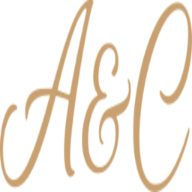
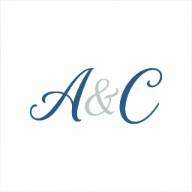
style

Changed region(s): [[0.0, 0.0, 1.0, 1.0], [0.7812, 0.5625, 0.8125, 0.5938]]

diff --git a/public/admin.html b/public/admin.html
@@ -274,7 +274,7 @@
             background: var(--primary);
             color: white;
             border-color: var(--primary);
-            box-shadow: 0 4px 12px rgba(212, 165, 116, 0.2);
+            box-shadow: 0 4px 12px rgba(44, 101, 156, 0.2);
         }
 
         .tab-content {
@@ -651,14 +651,14 @@
             left: 20px;
             right: 20px;
             bottom: 20px;
-            border: 1px solid #dfd3c3;
+            border: 1px solid #b8cdd8;
             pointer-events: none;
         }
 
         .invitation-names {
             font-family: 'Playfair Display', serif;
             font-size: 3rem;
-            color: #bfa37e;
+            color: #2C659C;
             margin-bottom: 0.5rem;
             line-height: 1.2;
         }
@@ -689,13 +689,13 @@
         .invitation-divider {
             width: 60px;
             height: 1px;
-            background: #bfa37e;
+            background: #2C659C;
             margin: 2rem auto;
         }
 
         .invitation-code-box {
-            background: #fdfaf6;
-            border: 1px dashed #d1b894;
+            background: #EFF5F9;
+            border: 1px dashed #89afc4;
             padding: 2rem;
             margin: 1.5rem 0;
             border-radius: 4px;
@@ -1252,7 +1252,7 @@
                             RSVP Online</p>
                         <p style="font-size: 0.95rem; line-height: 1.6; color: #555;">To view wedding details,
                             accommodations,<br>and to RSVP, please visit our website:</p>
-                        <p style="font-weight: 600; color: #bfa37e; margin: 1rem 0; font-size: 1.1rem;"
+                        <p style="font-weight: 600; color: #2C659C; margin: 1rem 0; font-size: 1.1rem;"
                             id="invitation-url-text"></p>
 
                         <div class="invitation-code-box">
@@ -1727,7 +1727,7 @@
                             RSVP Online</p>
                         <p style="font-size: 0.95rem; line-height: 1.6; color: #555;">To view wedding details,
                             accommodations,<br>and to RSVP, please visit our website:</p>
-                        <p style="font-weight: 600; color: #bfa37e; margin: 1rem 0; font-size: 1.1rem;"
+                        <p style="font-weight: 600; color: #2C659C; margin: 1rem 0; font-size: 1.1rem;"
                             id="invitation-url-text"></p>
 
                         <div class="invitation-code-box">
@@ -1756,7 +1756,7 @@
                 width: 128,
                 height: 128,
                 colorDark: "#333333",
-                colorLight: "#fdfaf6",
+                colorLight: "#EFF5F9",
                 correctLevel: QRCode.CorrectLevel.H
             });
 
@@ -2207,7 +2207,7 @@
                 <!-- Back Card (used as a container for simple QR view) -->
                 <div class="invitation-card" style="height: auto; padding: 2rem;">
                     <div class="invitation-back-content">
-                        <p style="font-weight: 600; color: #bfa37e; margin: 1rem 0; font-size: 1.1rem;">${url.replace('http://', '').replace('https://', '')}</p>
+                        <p style="font-weight: 600; color: #2C659C; margin: 1rem 0; font-size: 1.1rem;">${url.replace('http://', '').replace('https://', '')}</p>
                         <div class="invitation-code-box">
                             <p style="font-size: 0.7rem; color: #999; letter-spacing: 0.1em; margin-bottom: 0.5rem; text-transform: uppercase;">Your Unique Access Code</p>
                             <div class="invitation-code">${code}</div>
@@ -2225,7 +2225,7 @@
                 width: 150,
                 height: 150,
                 colorDark: "#333333",
-                colorLight: "#fdfaf6",
+                colorLight: "#EFF5F9",
                 correctLevel: QRCode.CorrectLevel.H
             });
 

diff --git a/public/styles.css b/public/styles.css
@@ -5,16 +5,16 @@
    ============================================ */
 :root {
   /* Colors */
-  --primary: #d4a574;
-  --primary-light: #e8c5a0;
-  --primary-dark: #c09258;
-  --secondary: #8b7355;
-  --accent: #c9a587;
-  --bg: #faf8f6;
-  --bg-dark: #f5f2ee;
-  --text-dark: #2c2c2c;
-  --text-light: #6b6b6b;
-  --text-muted: #a0a0a0;
+  --primary: #2C659C;
+  --primary-light: #D7E9F5;
+  --primary-dark: #1a4a7a;
+  --secondary: #4a7a6d;
+  --accent: #CBD8D1;
+  --bg: #E6EDF1;
+  --bg-dark: #D7E9F5;
+  --text-dark: #103445;
+  --text-light: #4a5c6a;
+  --text-muted: #8a9ba8;
   --white: #ffffff;
   --error: #d67070;
   --success: #7ab87a;
@@ -171,8 +171,8 @@ p {
   left: 0;
   right: 0;
   bottom: 0;
-  background: radial-gradient(circle at 20% 50%, rgba(212, 165, 116, 0.1) 0%, transparent 50%),
-    radial-gradient(circle at 80% 50%, rgba(201, 165, 135, 0.1) 0%, transparent 50%);
+  background: radial-gradient(circle at 20% 50%, rgba(44, 101, 156, 0.1) 0%, transparent 50%),
+    radial-gradient(circle at 80% 50%, rgba(203, 216, 209, 0.1) 0%, transparent 50%);
   pointer-events: none;
 }
 
@@ -351,7 +351,7 @@ p {
   top: 32px;
   border-radius: 50%;
   z-index: 1;
-  box-shadow: 0 0 0 4px rgba(212, 165, 116, 0.2);
+  box-shadow: 0 0 0 4px rgba(44, 101, 156, 0.2);
 }
 
 .timeline-item:nth-child(even) .timeline-marker {
@@ -507,7 +507,7 @@ p {
 .form-select:focus {
   outline: none;
   border-color: var(--primary);
-  box-shadow: 0 0 0 4px rgba(212, 165, 116, 0.1);
+  box-shadow: 0 0 0 4px rgba(44, 101, 156, 0.1);
 }
 
 .form-textarea {
@@ -816,7 +816,7 @@ input[type="radio"]+span {
 }
 
 .alert-info {
-  background: rgba(212, 165, 116, 0.1);
+  background: rgba(44, 101, 156, 0.1);
   color: var(--primary);
   border: 1px solid var(--primary);
 }
